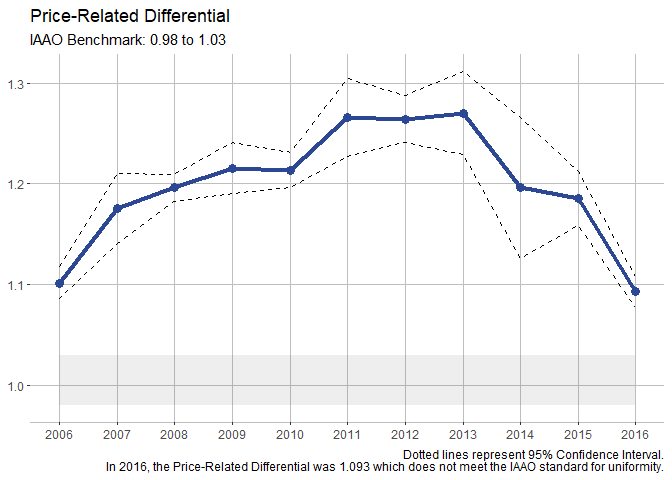
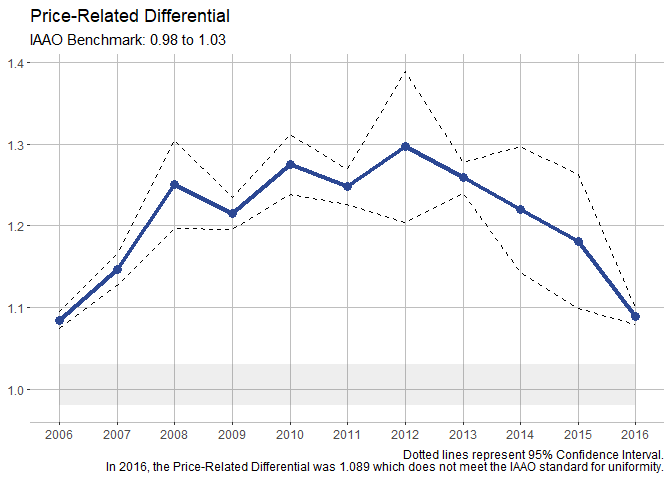
to v.2.1

diff --git a/README.md b/README.md
@@ -31,15 +31,17 @@ df <-
     sale_year_col = "SALE_YEAR",
     filter_data = TRUE
   )
+#> [1] "Filtered out non-arm's length transactions"
+#> [1] "Inflation adjusted to 2018"
 stats <- cmfproperty::calc_iaao_stats(df)
 head(stats)
-#>       N     COD  COD_SE    PRD PRD_SE     PRB PRB_SE  q1_ratio median_ratio
-#> 1 11448 15.6920  5.9279 1.0277 0.0083 -0.0706 0.0026 0.7463933    0.8350732
-#> 2 12341 16.3622  6.6752 1.0321 0.0070 -0.0737 0.0025 0.8122727    0.9000000
-#> 3 14002 18.4400  7.5252 1.0847 0.0095 -0.0868 0.0027 0.7787830    0.8794514
-#> 4 13449 19.1875  7.0249 1.0770 0.0090 -0.0887 0.0029 0.7556391    0.8543689
-#> 5 13743 21.9013  7.3364 1.1015 0.0079 -0.1301 0.0032 0.8974978    1.0068293
-#> 6 12634 26.9728 10.6388 1.1758 0.0177 -0.1967 0.0036 0.9369951    1.0879731
+#>       N     COD COD_SE    PRD PRD_SE     PRB PRB_SE  q1_ratio median_ratio
+#> 1 11448 15.6137 5.0551 1.0646 0.0099 -0.0706 0.0026 0.7463933    0.8350732
+#> 2 12341 16.2292 5.1543 1.0440 0.0034 -0.0737 0.0025 0.8122727    0.9000000
+#> 3 14002 18.3047 6.6167 1.0723 0.0052 -0.0868 0.0027 0.7787830    0.8794514
+#> 4 13449 19.9949 5.7487 1.0734 0.0084 -0.0887 0.0029 0.7556391    0.8543689
+#> 5 13743 22.0037 6.5136 1.0844 0.0054 -0.1301 0.0032 0.8974978    1.0068293
+#> 6 12634 27.0158 8.4432 1.1467 0.0099 -0.1967 0.0036 0.9369951    1.0879731
 #>    q3_ratio q1_sale median_sale q3_sale q1_assessed_value median_assessed_value
 #> 1 0.9407725   68900    108162.5  146525             55075                 87100
 #> 2 1.0040000   71500    113000.0  153000             63500                 99600
@@ -54,6 +56,61 @@ head(stats)
 #> 4            136400 2005
 #> 5            153000 2006
 #> 6            153975 2007
+```
+
+Data is required to have at least three columns, Sale Year, Sale Price,
+and Assessed Value.
+
+``` r
+head(cmfproperty::example_data)
+#>        PID ASSESSED_VALUE SALE_YEAR SALE_PRICE
+#> 1 10015586          52600      2002      70000
+#> 2 10031205          44700      2002        500
+#> 3 10057963          36800      2002      61900
+#> 4 10057964          40300      2002      67000
+#> 5 10025322          61500      2002     102000
+#> 6 10057089         120900      2002     258000
+```
+
+reformat\_data then adds additional calculated fields:
+
+  - RATIO, which is the Sales Ratio (Sale Price / Assessed Value)
+  - arms\_length\_transaction, an indicator that the property was sold
+    in an arm’s length transaction (calculated using the IAAO standard)
+  - SALE\_PRICE\_ADJ, inflation adjusted sale price (adjusted to the
+    last year of available data)
+  - ASSESSED\_VALUE\_ADJ, inflation adjusted assessed value (adjusted to
+    the last year of available data)
+
+<!-- end list -->
+
+``` r
+df <- cmfproperty::example_data
+df <-
+  cmfproperty::reformat_data(
+    df,
+    sale_col = "SALE_PRICE",
+    assessment_col = "ASSESSED_VALUE",
+    sale_year_col = "SALE_YEAR",
+    filter_data = TRUE
+  )
+#> [1] "Filtered out non-arm's length transactions"
+#> [1] "Inflation adjusted to 2018"
+head(as.data.frame(df)) #just to print all the columns
+#>        PID ASSESSED_VALUE SALE_YEAR SALE_PRICE TAX_YEAR     RATIO
+#> 1 10015586          52600      2002      70000     2002 0.7514286
+#> 2 10057963          36800      2002      61900     2002 0.5945073
+#> 3 10057964          40300      2002      67000     2002 0.6014925
+#> 4 10025322          61500      2002     102000     2002 0.6029412
+#> 5 10057089         120900      2002     258000     2002 0.4686047
+#> 6 10045583         163600      2002     312500     2002 0.5235200
+#>   arms_length_transaction SALE_PRICE_ADJ ASSESSED_VALUE_ADJ
+#> 1                       1      100370.59           75421.33
+#> 2                       1       88756.28           52766.25
+#> 3                       1       96068.99           57784.78
+#> 4                       1      146254.29           88182.73
+#> 5                       1      369937.32          173354.35
+#> 6                       1      448082.99          234580.41
 ```
 
 More advanced features are available as well:
